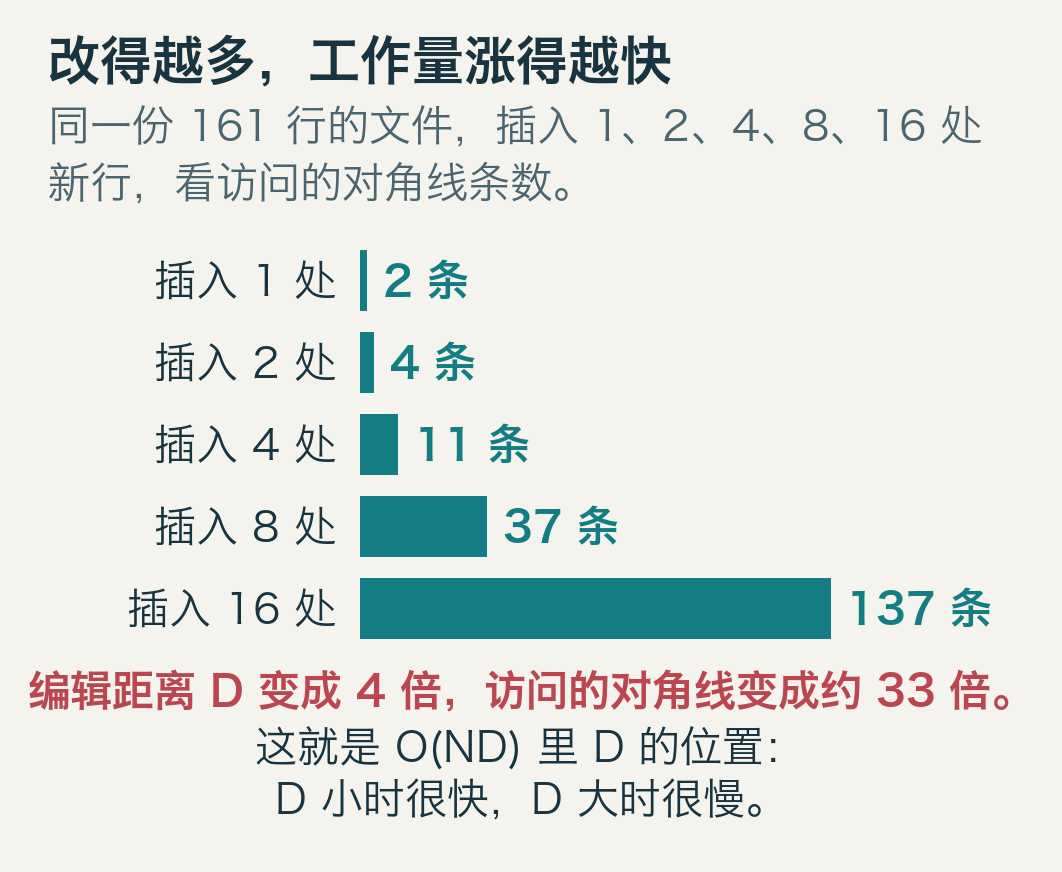
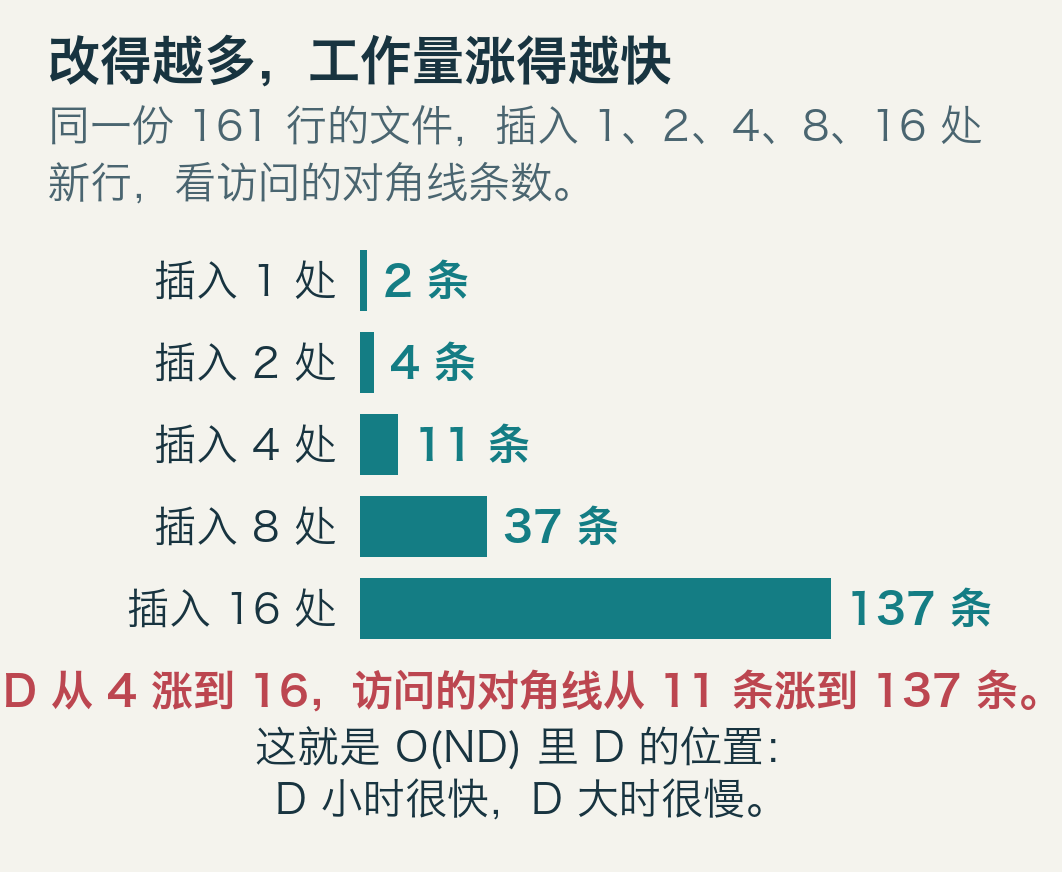
Fix defects found by the independent review of the three new articles
An independent editor re-read all three, re-ran the experiments, checked every
quoted number against the recorded data, and verified the history against the
cited sources. It found five real defects; this commit fixes them.

chess-engine-alpha-beta
- §5 quoted two different alpha-beta variants under one name: the controlled
  table used the unordered variant (depth 4 = 91,275) while the cost curve
  used the move-ordered one (100x, 371,984). The curve now uses the same
  unordered data as the table, the figure is labelled "alpha-beta (不排序)",
  and §7/§9/§12 now name the ordered variant explicitly.
- The curve's own claim changed to match: "alpha-beta at depth 5 used 299,002
  nodes; minimax at depth 4 used 946,296" (one ply deeper, under a third of
  the nodes).

diff-edit-graph
- §5's D=2 walkthrough gave the wrong start coordinate: (2,2) is on k=0, the
  k=-2 snake starts at (0,2).
- §7 claimed "4x the edit distance gives 33x the diagonals, faster than D^2",
  which contradicted its own table. Now: 4x gives 12.5x, growth is about
  D^2/2 (128 vs 137 measured at D=16), so D's effect is quadratic and doubling
  D costs about 3.5-4x.
- §9 quoted wall-clock timings that were not in results.json. Now rounded with
  a stated +/-20% run-to-run caveat, and a note that the comparison and
  diagonal counts are deterministic.
- Two numbers were fixed in the prose but left wrong inside figure images:
  assets/09-complexity.png still printed "33 倍", and assets/19-cohen.png still
[…]

Changed region(s): [[0.0, 0.7431, 0.9633, 0.836]]

diff --git a/articles/2026-10-16-chess-engine-alpha-beta/examples/build_figures.py b/articles/2026-10-16-chess-engine-alpha-beta/examples/build_figures.py
@@ -185,7 +185,7 @@ def fig05():
 def fig06():
     import math
     mm = list(M['minimax_midgame'])
-    ab = list(M['alphabeta_captures'])
+    ab = list(M['alphabeta_none'])
     fig = Fig(940)
     fig.text((48, 34), '同一局面，两种算法的节点数', 52, True)
     sub(fig, 104, '横轴是深度，纵轴是对数刻度上的节点数。两条线共用同一根轴。')
@@ -203,7 +203,7 @@ def fig06():
         fig.text((px(d), y1 + 32), str(d), 42, color=INK, anchor='mm')
     fig.text(((x0 + x1) / 2, y1 + 86), '搜索深度（层）', 42, color=INK,
              anchor='mm')
-    for series, color, name in ((mm, RED, '极小化极大'), (ab, TEAL, 'α-β 加吃子优先')):
+    for series, color, name in ((mm, RED, '极小化极大'), (ab, TEAL, 'α-β（不排序）')):
         pts = [(px(r['depth']), py(r['nodes'])) for r in series]
         for i in range(len(pts) - 1):
             fig.line(pts[i], pts[i + 1], color, 6)
@@ -211,13 +211,14 @@ def fig06():
             fig.circle(p[0], p[1], 11, fill=color, outline=color, width=2)
     fig.text((x0 + 46, py(mm[-1]['nodes']) + 42), '极小化极大', 42, True, RED,
              anchor='lm')
-    fig.text((x0 + 46, py(ab[-1]['nodes']) - 42), 'α-β 加吃子优先', 42, True,
+    fig.text((x0 + 46, py(ab[-1]['nodes']) - 42), 'α-β（不排序）', 42, True,
              TEAL, anchor='lm')
     fig.text((531, 790), '深度 4：极小化极大访问 %s 个节点，' % f"{mm[3]['nodes']:,}",
              42, True, INK, anchor='mm')
     fig.text((531, 838), 'α-β 只访问 %s 个。' % f"{ab[3]['nodes']:,}",
              42, True, TEAL, anchor='mm')
-    save(fig, '06-nodes-by-depth.png', '两种算法在各深度上的真实节点数（同一局面）')
+    save(fig, '06-nodes-by-depth.png',
+         '两种算法在各深度上的真实节点数（同一局面，α-β 不带走法排序）')
 
 
 # --------------------------------------------------------- 07 β 截断

diff --git a/articles/2026-10-16-diff-edit-graph/examples/build_figures.py b/articles/2026-10-16-diff-edit-graph/examples/build_figures.py
@@ -288,7 +288,7 @@ def fig09():
                  TEAL, anchor='lm')
     vals = [r['diagonals'] for r in rows]
     assert vals == sorted(vals)
-    fig.text((531, y + 5 * 82 + 30), '编辑距离 D 变成 4 倍，访问的对角线变成约 33 倍。', 42,
+    fig.text((531, y + 5 * 82 + 30), 'D 从 4 涨到 16，访问的对角线从 11 条涨到 137 条。', 42,
              True, RED, anchor='mm')
     fig.text((531, y + 5 * 82 + 86), '这就是 O(ND) 里 D 的位置：', 42,
              color=INK, anchor='mm')
@@ -519,7 +519,7 @@ def fig18():
 
 def fig19():
     fig = Fig(1140)
-    fig.text((48, 34), '2007 年：换一个目标', 52, True)
+    fig.text((48, 34), '换一个目标：patience diff', 52, True)
     sub(fig, 104, 'Bram Cohen 提出 patience diff：不再只问「最短」，而是问「哪种最短更好读」。')
     y = photo_head(fig, 'real-02-cohen.jpg', '布拉姆·科恩',
                    ['patience diff 的提出者', 'BitTorrent 的作者'],

diff --git a/articles/2026-10-16-chess-engine-alpha-beta/read.md b/articles/2026-10-16-chess-engine-alpha-beta/read.md
@@ -202,12 +202,14 @@ def alphabeta(pos, depth, alpha, beta):
 
 ![两种算法在各深度上的真实节点数](assets/06-nodes-by-depth.png)
 
-这张图纵轴是对数刻度，两条线共用一根轴。看两件事：
+这张图纵轴是对数刻度，两条线共用一根轴。它用的还是**同一个不带排序的 α-β**，跟上面那张表是同一组数据。看两件事：
 
-- 在深度 4，两条线差大约 100 倍。
-- α-β 在**深度 6** 用了 371,984 个节点；极小化极大在**深度 4** 就用了 946,296 个。**α-β 多看两层，用的节点还更少。**
+- 在深度 4，两条线差大约 10 倍。
+- α-β 在**深度 5** 用了 299,002 个节点；极小化极大在**深度 4** 就用了 946,296 个。**α-β 多看一层，用的节点还不到三分之一。**
 
 这就是"剪枝能换深度"的具体含义。
+
+**注意这里的 α-β 还没做任何走法排序**——它只是老老实实按走法生成顺序往下看。下一节会看到，光把顺序换一下，同样的深度还能再省好几倍。
 
 ## 6. 剪枝靠什么：先看哪一步
 
@@ -224,6 +226,8 @@ def alphabeta(pos, depth, alpha, beta):
 | 打乱顺序 | 442,618 |
 | 生成顺序（兵、马、象、车、后、王的顺序） | 299,002 |
 | 吃子优先（先看吃得最划算的） | 77,508 |
+
+（上一节曲线里那条 α-β，用的就是「生成顺序」这一行。）
 
 **最省和最费差了 5.7 倍。** 算法一个字没改，只是换了个看走法的顺序。
 
@@ -244,6 +248,8 @@ def alphabeta(pos, depth, alpha, beta):
 所以：**第一次算完就把结论存起来，第二次直接取。** 存这个结论的表叫**置换表**。
 
 ![置换表探测与命中的真实计数](assets/11-transposition-table.png)
+
+这一节和下一节的 α-β **都带着第 6 节的吃子优先排序**（不是第 5 节那条不排序的曲线）。
 
 | 深度 | 探测次数 | 命中次数 | 有表时的节点数 | 无表时的节点数 |
 |---|---|---|---|---|
@@ -337,7 +343,7 @@ x ⊕ y ⊕ y = x
 
 摆动从 260 分降到 5 分，从 190 分降到 10 分。
 
-代价是慢：局面 1 在深度 5 从 77,507 个节点涨到 126,218 个主节点，另外还有 184,097 个静止搜索节点。**用速度换稳定**，这是这套方法里反复出现的一种交换。
+代价是慢：局面 1 在深度 5 从 77,507 个节点（吃子优先）涨到 126,218 个主节点，另外还有 184,097 个静止搜索节点。**用速度换稳定**，这是这套方法里反复出现的一种交换。
 
 ## 10. 历史：这些想法是谁想出来的
 
@@ -425,7 +431,7 @@ Zobrist 键也走出了棋类：它被用来在材料模拟中识别晶体结构
 
 代码在 `examples/` 里，只用 Python 标准库。四个建议的改动：
 
-1. **把深度从 4 改成 5。** 先猜节点数会涨多少，再跑。参考：本文实测 α-β 在深度 4 用 9,407 个节点，深度 5 用 77,508 个，涨了 8.2 倍。极小化极大在深度 4 用了 946,296 个节点；深度 5 本文没有跑完，按每层约 30 倍推算它要访问两千万个以上（这是推算，不是实测）。
+1. **把深度从 4 改成 5。** 先猜节点数会涨多少，再跑。参考：本文实测（吃子优先的）α-β 在深度 4 用 9,407 个节点，深度 5 用 77,508 个，涨了 8.2 倍。极小化极大在深度 4 用了 946,296 个节点；深度 5 本文没有跑完，按每层约 30 倍推算它要访问两千万个以上（这是推算，不是实测）。
 2. **把吃子优先去掉。** 同一个深度，节点数会涨好几倍。改法是 `order='none'`。
 3. **把置换表关掉。** 深度 6 会明显变慢，深度 4 反而看不出差别——甚至可能更快。想想为什么。
 4. **给评估函数加一条新规则**（比如"兵越靠近对方底线加分"）。同一个局面，程序可能挑另一步。这条最能说明一件事：**搜索负责"看得远"，评估函数负责"看得准"，两者缺一不可。**

diff --git a/articles/2026-10-16-racing-the-beam-atari/sources.md b/articles/2026-10-16-racing-the-beam-atari/sources.md
@@ -36,17 +36,15 @@
 
 本文正文没有复制任何游戏画面、卡带封面艺术或厂商宣传图。所有游戏相关内容都以文字描述并链接到公开页面。
 
-正文使用 9 张第三方真实照片，全部来自 Wikimedia Commons：
+正文使用 9 张第三方真实照片（`originals/photos/` 下同名 9 个文件），全部来自 Wikimedia Commons：
 
 | 文件 | 内容 | 作者 | 许可 |
 |---|---|---|---|
 | originals/photos/real-01-console.jpg | Atari 2600 四开关版与摇杆 | Evan-Amos | 公有领域 |
-| originals/photos/real-02-joystick.jpg | CX40 摇杆 | Rama | CC BY-SA 2.0 fr |
 | originals/photos/real-03-pitfall-cart.jpg | Pitfall! 卡带 | JoRgE-1987 | CC BY-SA 4.0 |
 | originals/photos/real-04-motherboard.jpg | Atari 2600 主板（1982 年四开关版） | Tetrodotoxine | CC BY-SA 4.0 |
 | originals/photos/real-05-6502.jpg | MOS MPS 6502 芯片 | ZyMOS | CC BY-SA 4.0 |
 | originals/photos/real-06-scanline.jpg | 电视扫描线高速合成照片 | Tristantech | CC BY-SA 3.0 |
-| originals/photos/real-07-videosignal.jpg | PAL 视频信号的扫描行波形 | Shaddack | CC BY-SA 4.0 |
 | originals/photos/real-08-jay-miner.jpg | Jay Miner，1990 年 | Michael C. Battilana / Cloanto IT srl | CC BY 2.0 |
 | originals/photos/real-09-bushnell.jpg | Nolan Bushnell，2013 年 | Tech Cocktail | CC BY-SA 2.0 |
 | originals/photos/real-10-crane.jpg | David Crane，2011 年 | Joe Grand | CC BY-SA 2.0 |
@@ -60,7 +58,7 @@
 - 全部照片只做等比缩放与居中裁切以适配版面，没有改动人物、设备或背景，也没有添加内容。人物肖像的拍摄年代各不相同（Miner 1990 年、Crane 2011 年、Robinett 2015 年、Bushnell 2013 年），图注均写明拍摄场合，未暗示它们来自所讲述的历史现场。
 - 未使用任何生成模型制造的人像、主机照片、卡带照片或伪历史截图。
 
-**第三方 CC BY-SA 素材范围**：本组照片中主板、6502、Pitfall! 卡带、扫描线照片、摇杆、Bushnell、Crane 采用 CC BY-SA 许可（版本见上表）。相应图片保留各自注明版本的 CC BY-SA 许可；如对这些图作改编，须按该许可要求分享，保留作者、来源、许可链接及修改说明。本文对它们的处理是等比缩放与居中裁切。文章集合不据此把其他独立作品统一改为 CC BY-SA。
+**第三方 CC BY-SA 素材范围**：本组照片中主板、6502、Pitfall! 卡带、扫描线照片、Bushnell、Crane 采用 CC BY-SA 许可（版本见上表）。相应图片保留各自注明版本的 CC BY-SA 许可；如对这些图作改编，须按该许可要求分享，保留作者、来源、许可链接及修改说明。本文对它们的处理是等比缩放与居中裁切。文章集合不据此把其他独立作品统一改为 CC BY-SA。
 
 ## 原创视觉及证据身份
 

diff --git a/docs/figure-production-2026-10-16.md b/docs/figure-production-2026-10-16.md
@@ -64,7 +64,21 @@
 
 每张图在 `examples/figure-metadata.json` 里记下尺寸、最小字号、用途与身份（原创示意 / 模型输出 / 第三方照片）。生成后应逐项核对：元数据里的宽高与 PNG 实际宽高一致，`read.md` 引用的每个文件都存在，且没有未被引用的图。
 
-## 七、自检能抓什么、抓不到什么
+## 七、改正文里的数字时，图必须一起查
+
+2026-10-16 这一批踩到的真实坑：正文里一处比例写错了，改成正确值之后，**同一句话还印在图里**。独立审读第一遍只看正文，放过了；第二遍把图重新生成并做了一次 OCR，才发现图里还是旧数字，于是正文和图对同一件事给了两个答案。
+
+原因很简单：图里的说明文字是绘图脚本里的字面量，它和正文各存一份。改了一处，另一处不会跟着变。
+
+所以：
+
+- **正文里任何被修正的数字，都要回头在 `build_figures.py` 里搜一遍。** 改完重新生成 PNG，并确认新 PNG 与旧的不同。
+- 提交前做一次**图内数字清点**：把绘图脚本里所有含数字的中文说明字面量抽出来逐条读一遍，和正文、和实测数据对。三篇文章一共 173 条，人工过一遍不慢，漏掉的代价是读者看到两个互相矛盾的数。
+- 同一句话不要在图和正文里各写一份。能让图从数据算出来，就让图去算；只能手写的说明，改正文时按上面的办法同步。
+
+同一类问题还有一种更隐蔽的形态：**结论被削弱了，但图里的标题还留着旧结论。** 本批 diff 那篇的图 19 标题原本印着「2007 年：换一个目标」，而正文里的年份因为核不到原始来源已经删掉了。图注同样要跟着事实范围走。
+
+## 八、自检能抓什么、抓不到什么
 
 能抓：出界、越框、重叠、字号、对比度、缺字、柱子顺序、空白底边、元数据不一致。
 
